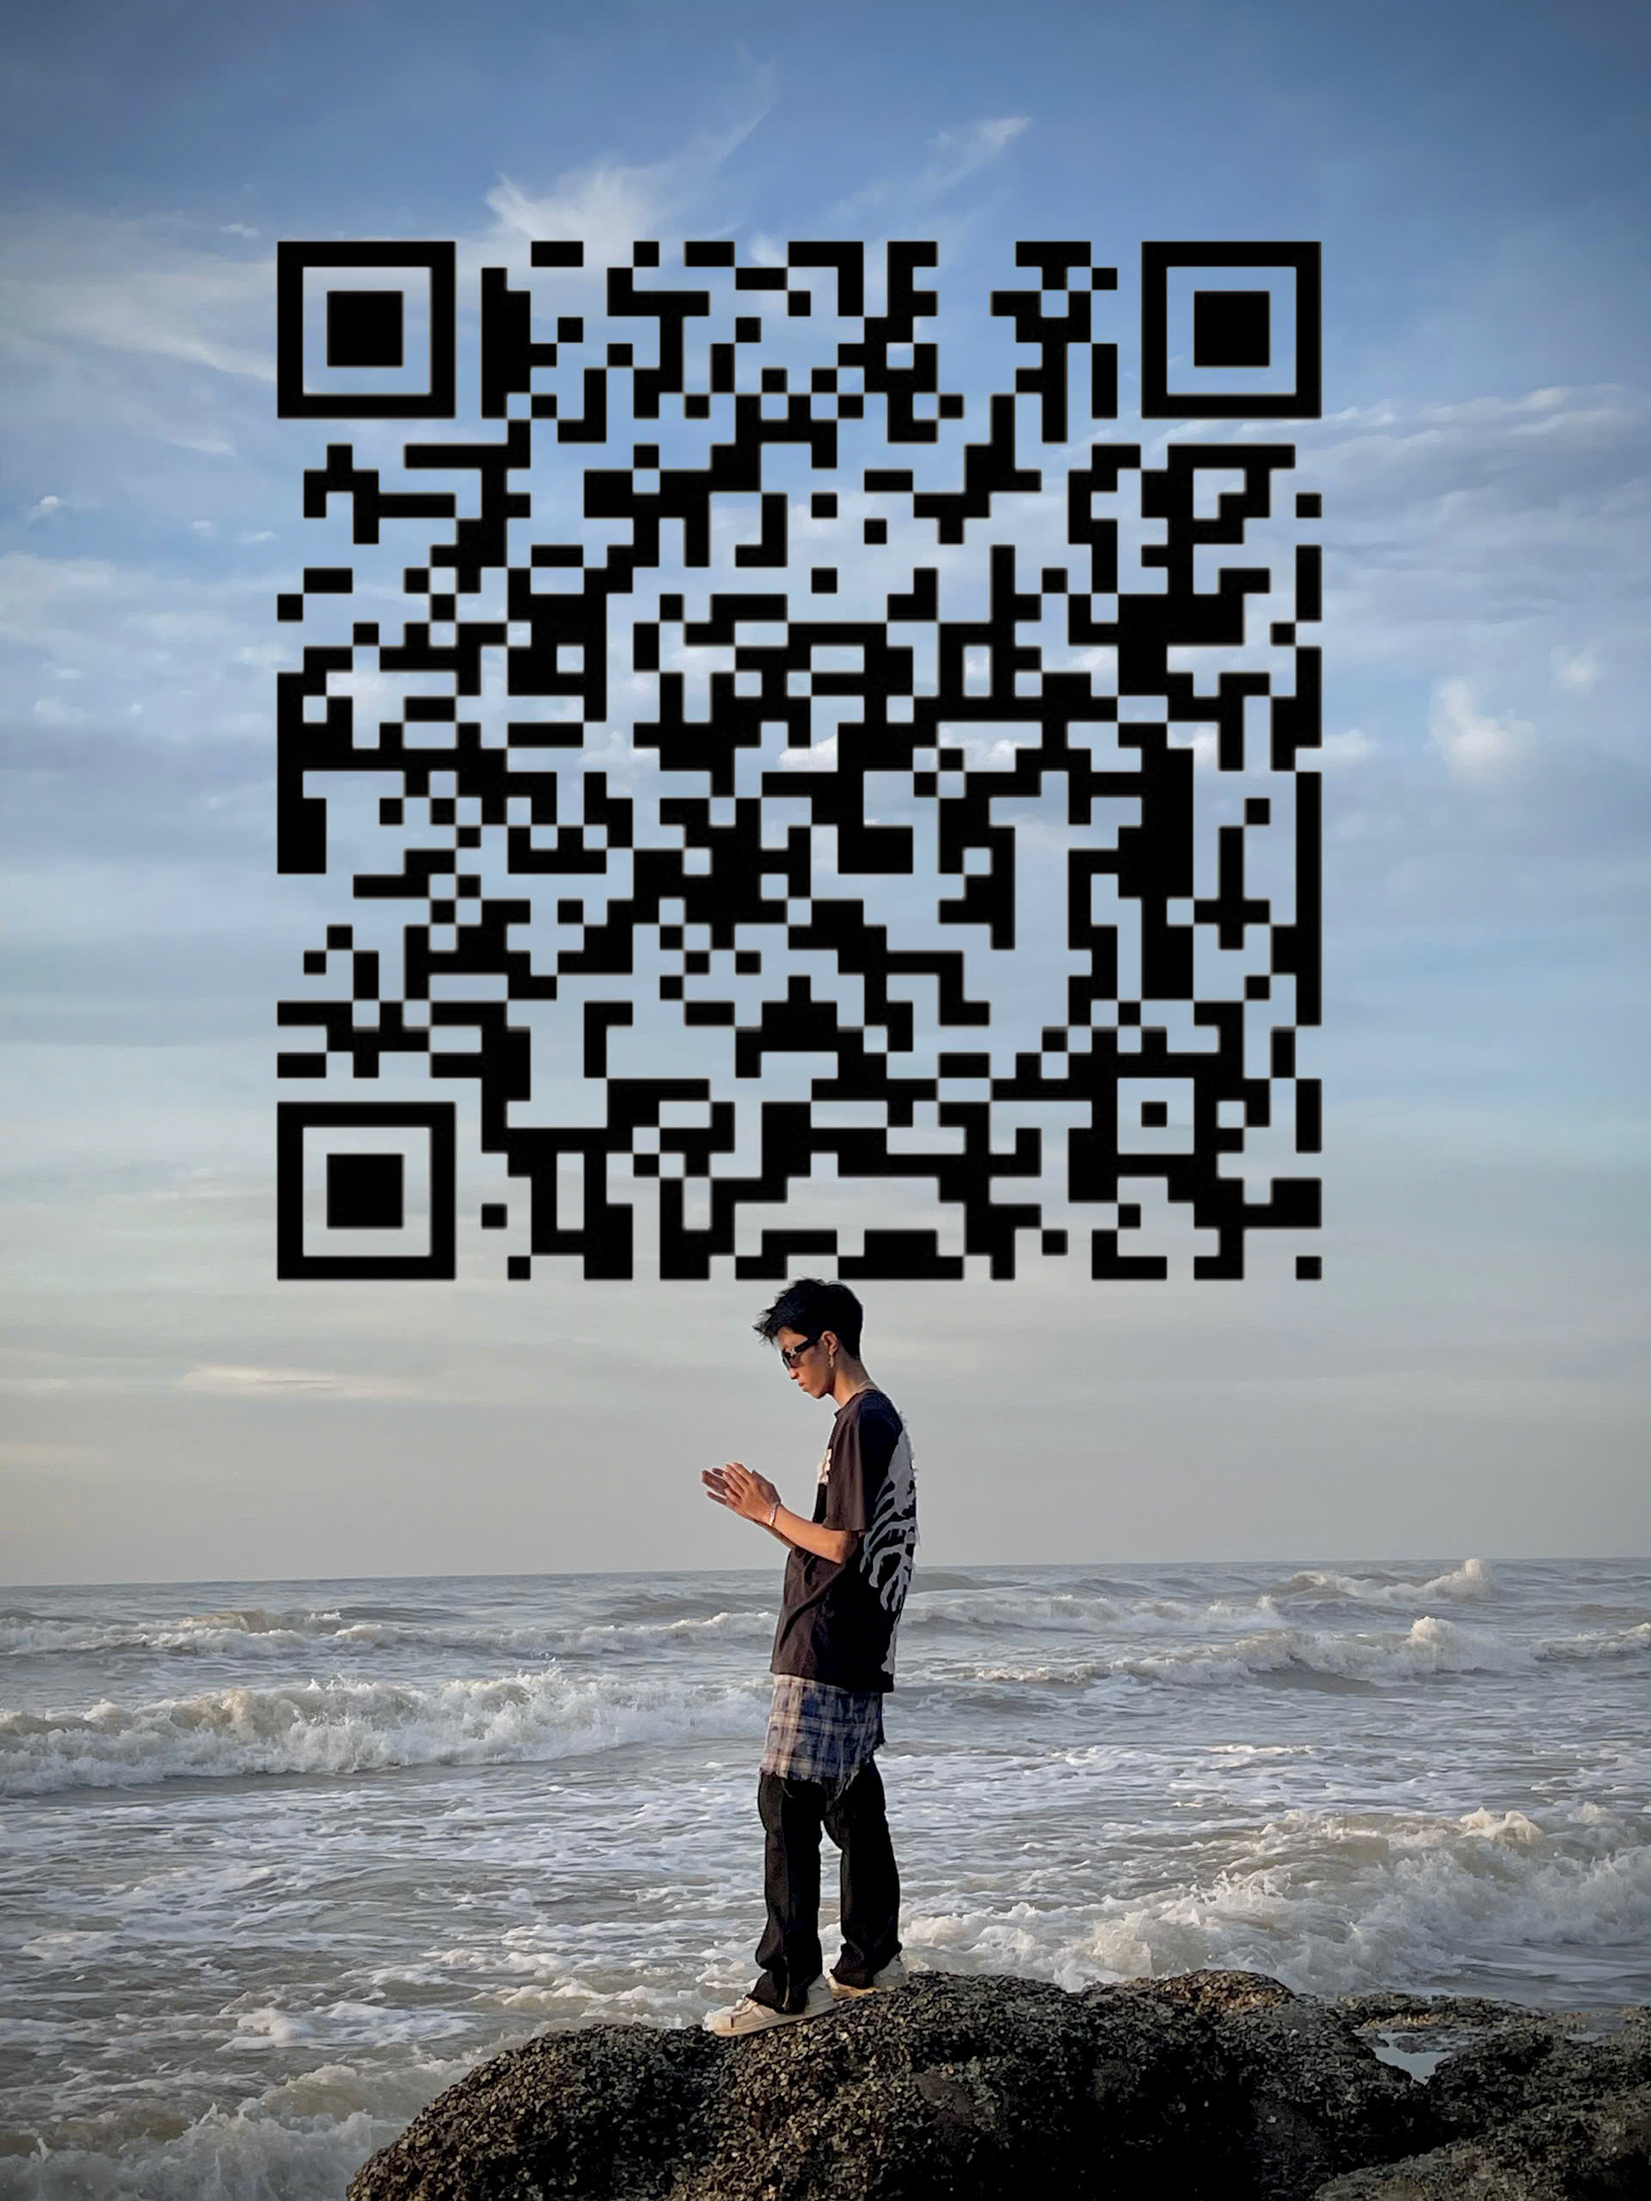
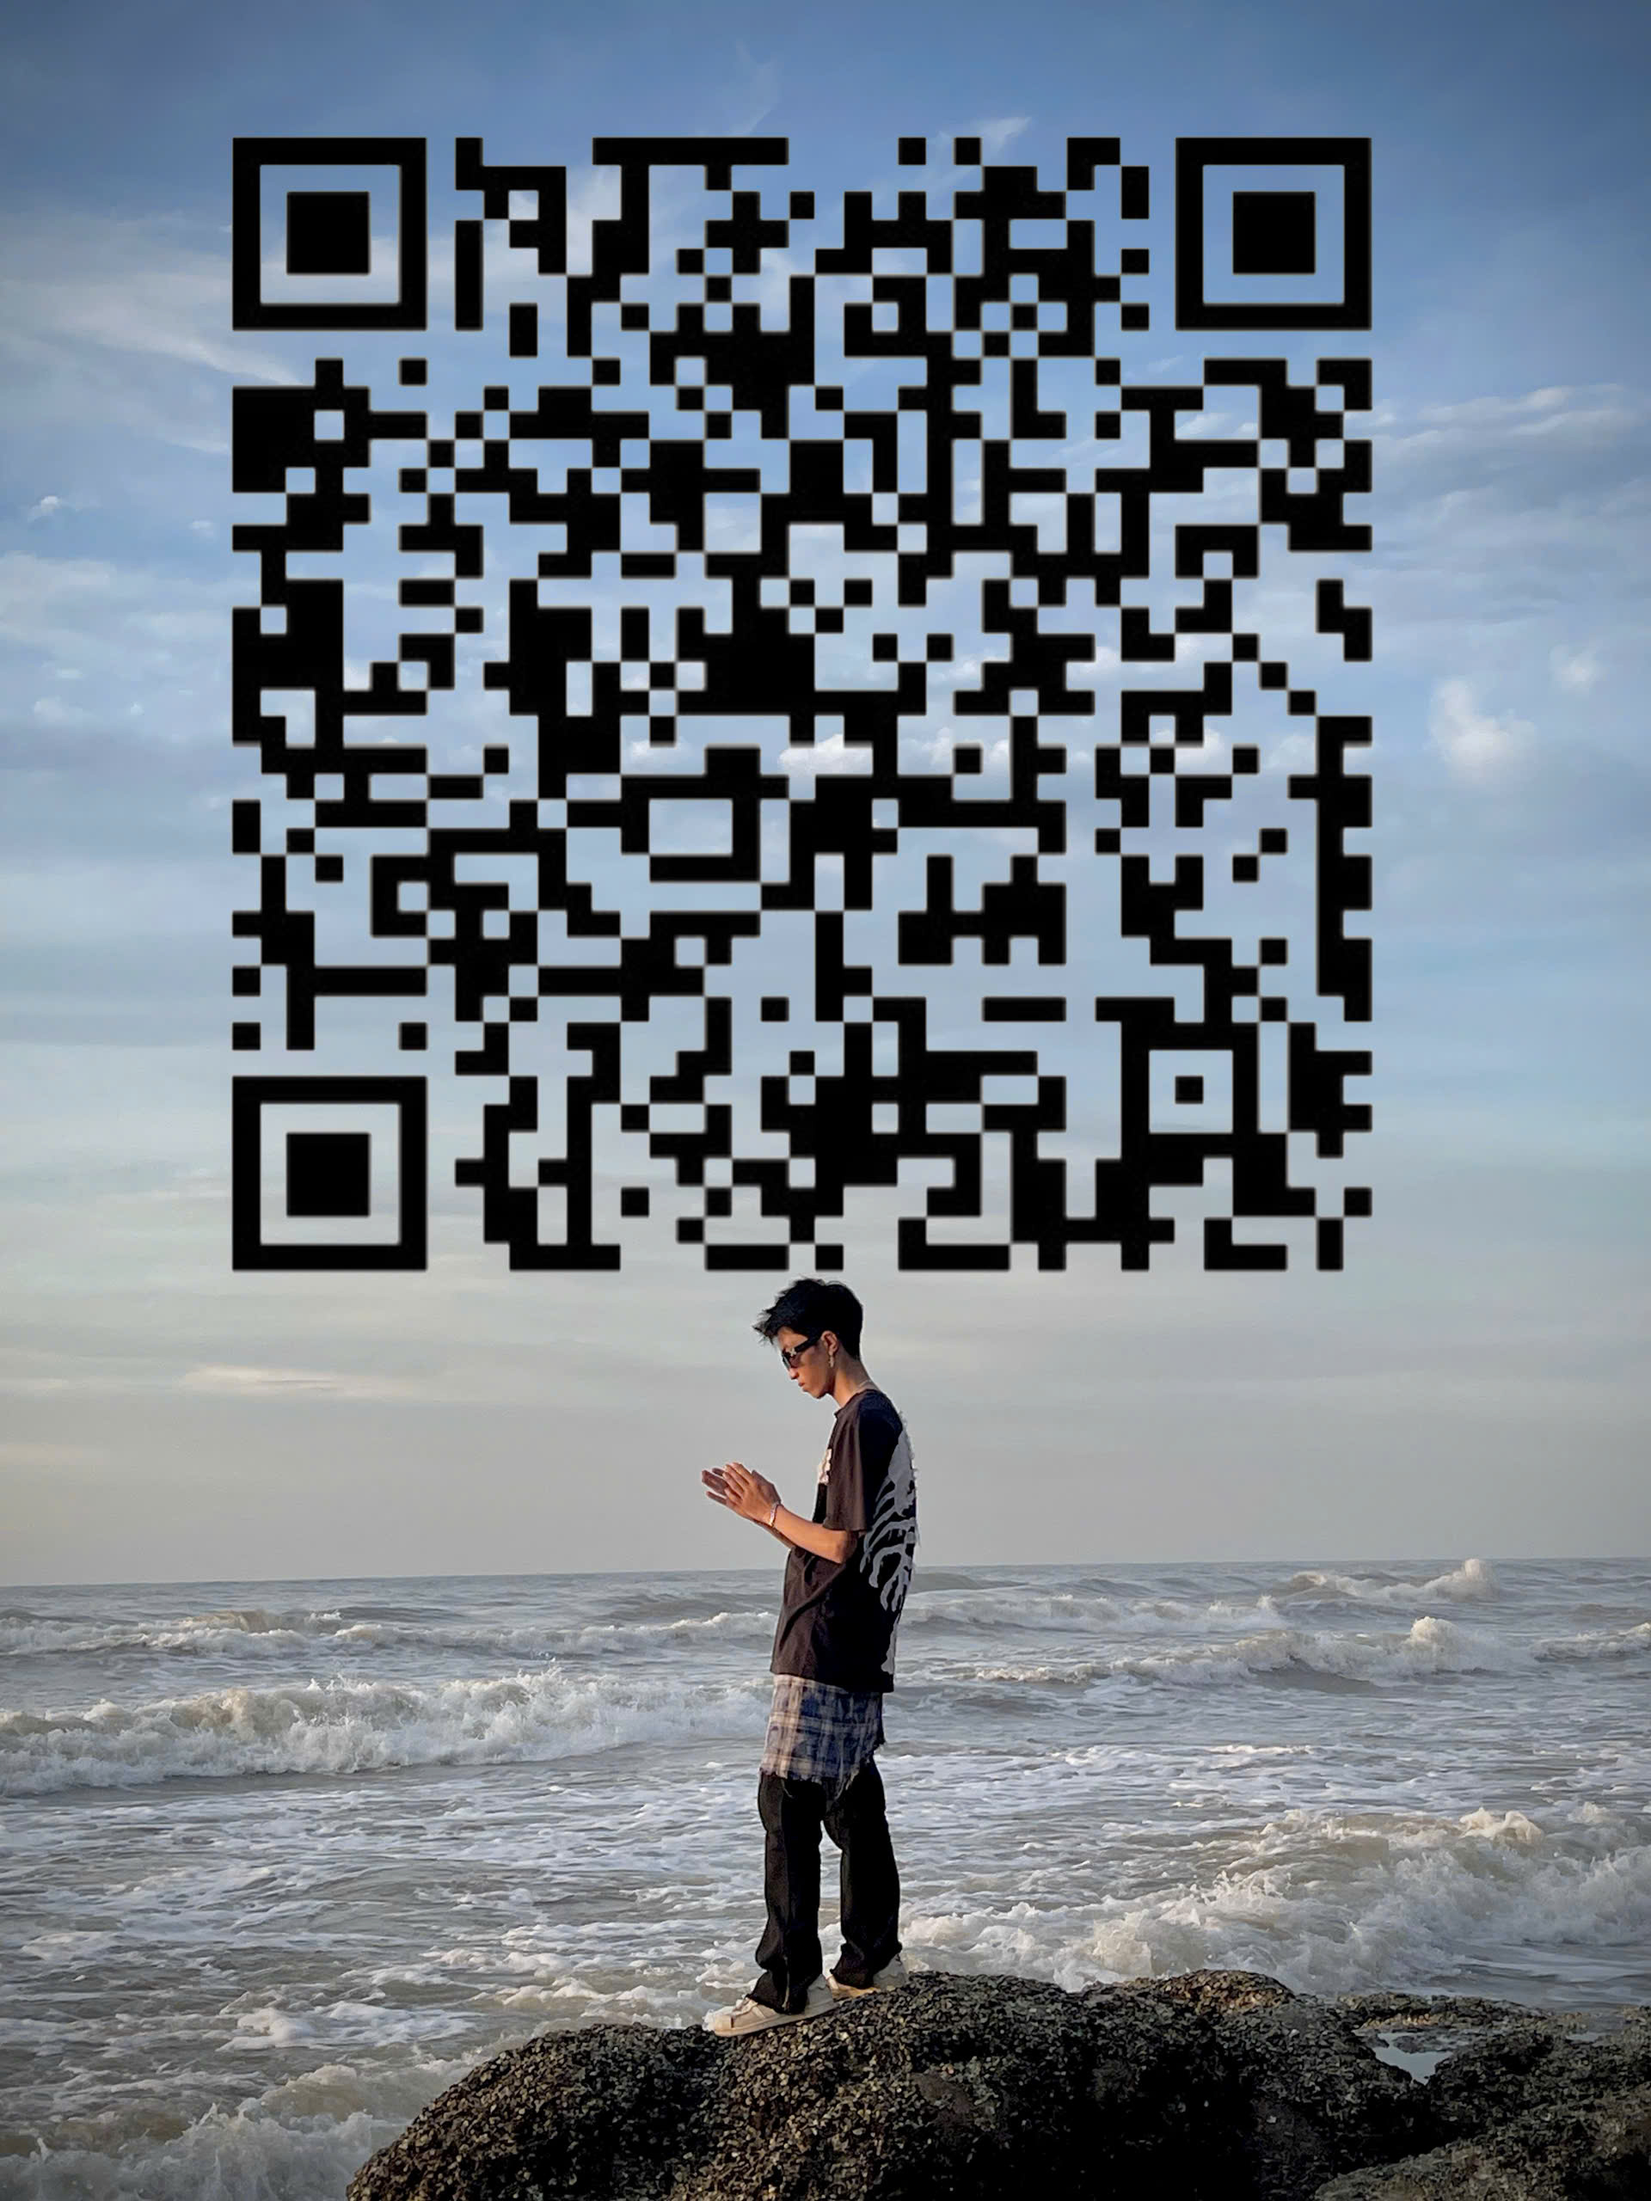
Update code

Changed region(s): [[0.125, 0.0625, 0.8438, 0.5938]]

diff --git a/main.html b/main.html
@@ -80,8 +80,9 @@
   <div id="popupQrImage" class="popup-overlay-qr" style="display: none;">
     <div class="popup-box-qr">
       <span id="closePopupQr" class="close-btn">&times;</span>
-      <h3>1 lì xì nhỏ<br>Dùng Ngân Hàng Quét Nhé ♥</h3>
+      <h3>1 lì xì nho nhỏ<br>Dùng Zalo Pay Quét Nhé ♥</h3>
       <img src="./images/qr.jpg" alt="QR Code" style="max-width: 100%; border-radius: 10px;">
+      <P>*hãy nhận lấy thành ý của tớ để lời chúc của tớ hiệu nghiệm nhé♥</P>
     </div>
   </div>
 
